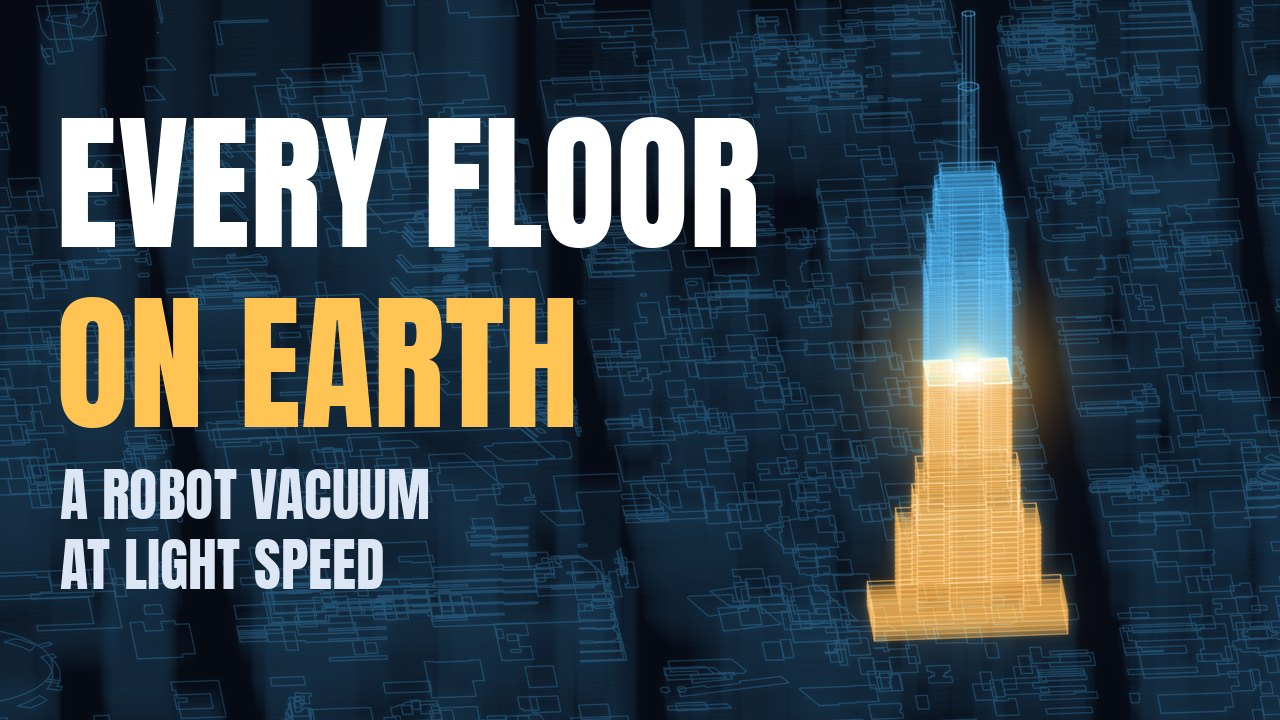
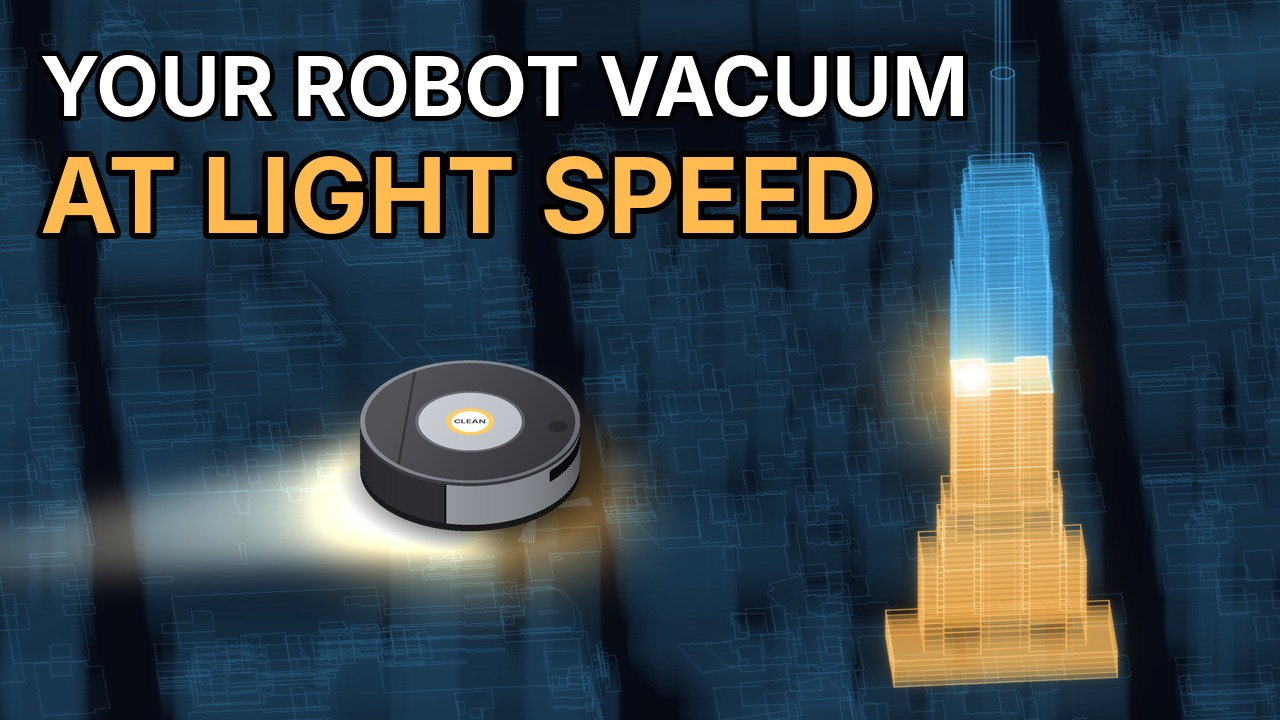
Every floor on Earth: eight thumbnails, paired titles and a new description
Thumbnails A-H from the film's own renders, each with a big robot vacuum:
your robot vacuum at light speed (Empire State Building), every floor in New
York 7.4 s, SPOTLESS (the floors, anyway), vacuum the planet 1 h 08 min, the
Empire State Building 3.5 ms, every U-turn = 10 Tsar Bombas, slowed a
billion times it's as fast as yours, robot vacuum vs. Earth. Titles paired to
each, a Test & Compare trio (A, D, C), and a description that opens with the
question and names the world total's source.

Claude-Session: https://claude.ai/code/session_01S7EUN1emEd9CYeKMFTvStm

diff --git a/world_roads/floors/thumbs.py b/world_roads/floors/thumbs.py
@@ -1,0 +1,223 @@
+"""Three thumbnails for YouTube's Test & Compare (1280x720), each with a big robot vacuum and drawn from the film's
+own renders, in the Roomba film's style (roomba/thumbs.py):
+
+    A  the X-ray Empire State Building half cleaned, a robot vacuum streaking at it: YOUR ROBOT VACUUM / AT LIGHT SPEED
+    B  Manhattan half gold:                                 EVERY FLOOR / IN NEW YORK / 7.4 s
+    C  the burning planet from the ending:                  SPOTLESS. (the floors, anyway)
+    D  the globe half gold, the answer up front:            VACUUM THE PLANET / 1 h 08 min
+    E  the Empire State Building, all gold:                 THE EMPIRE STATE BUILDING / 3.5 ms
+    F  the U-turn flash at the end of a row:                EVERY U-TURN = / 10 TSAR BOMBAS
+    G  the opening close-up, robot at true size:            SLOWED 1,000,000,000× / ...IT'S AS FAST AS YOURS
+    H  versus:                                              ROBOT VACUUM / VS. EARTH
+
+    python thumbs.py [A ... H]    -> out/thumbs/every_floor_thumb_{A..H}.png
+"""
+import os, sys, math
+import numpy as np
+import cv2
+from PIL import Image, ImageDraw, ImageFont
+
+HERE = os.path.dirname(os.path.abspath(__file__))
+ROOT = os.path.dirname(HERE)
+sys.path.insert(0, os.path.join(ROOT, "signal"))
+sys.path.insert(0, os.path.join(ROOT, "roomba"))
+sys.path.insert(0, HERE)
+import style as ST                                                    # noqa: E402
+import video as V                                                     # noqa: E402  (this film's, before frames.py adds roomba/)
+import xray as X                                                      # noqa: E402
+import cityfilm as CF                                                 # noqa: E402
+import frames as FR                                                   # noqa: E402
+
+FR.SS = 1
+TW, TH = 1280, 720
+OUT = os.path.join(HERE, "out", "thumbs")
+GOLD = (255, 186, 80)
+WHITE = (255, 255, 255)
+RED = (255, 52, 52)
+
+
+def headline(d, xy, s, size, col, anchor="la"):
+    d.text(xy, s, font=ST.font(size, "Bold"), fill=col, stroke_width=max(5, size // 16), stroke_fill=(0, 0, 0), anchor=anchor)
+
+
+def marker(d, xy, s, size, col=RED, anchor="la"):
+    f = ImageFont.truetype(os.path.join(ROOT, "thumb_fonts", "PermanentMarker-Regular.ttf"), size)
+    d.text(xy, s, font=f, fill=col, anchor=anchor, stroke_width=3, stroke_fill=(0, 0, 0))
+
+
+def hero_robot(im, x, y, width, heading=-30.0, streak_len=2.8):
+    """a three-quarter-view robot vacuum at (x, y) driving toward `heading` (screen degrees, counter-clockwise from
+    right), with a light-speed streak behind it and a warm glow under it (as in the Roomba film's thumbnails)"""
+    import roomba3d
+    arr = np.asarray(im.convert("RGB")).astype(np.float32)
+    h, w = arr.shape[:2]
+    hd = math.radians(heading)
+    dx, dy = math.cos(hd), -math.sin(hd)
+    px, py = -dy, dx
+    gy = y + width * 0.10
+    L, r0 = width * streak_len, width * 0.34
+    tail = (x - dx * L, gy - dy * L)
+    streak = np.zeros((h, w), np.float32)
+    poly = np.array([(x + px * r0, gy + py * r0 * 0.55), (x - px * r0, gy - py * r0 * 0.55), (tail[0], tail[1])], np.int32)
+    cv2.fillPoly(streak, [poly], 1.0, cv2.LINE_AA)
+    yy, xx = np.mgrid[0:h, 0:w].astype(np.float32)
+    along = ((xx - x) * -dx + (yy - gy) * -dy) / L
+    streak *= np.clip(1 - along, 0, 1) ** 1.6
+    streak = cv2.GaussianBlur(streak, (0, 0), width * 0.05)
+    glow = np.zeros((h, w), np.float32)
+    cv2.ellipse(glow, (int(x), int(gy + width * 0.05)), (int(width * 0.50), int(width * 0.24)), 0, 0, 360, 1.0, -1, cv2.LINE_AA)
+    glow = cv2.GaussianBlur(glow, (0, 0), width * 0.09)
+    arr = arr + streak[..., None] * np.array([255, 236, 196]) * 0.9 + glow[..., None] * np.array(GOLD) * 0.6
+    out = Image.fromarray(np.clip(arr, 0, 255).astype(np.uint8)).convert("RGBA")
+    sp = roomba3d.sprite(int(width), heading)
+    out.alpha_composite(sp, (int(x - sp.width / 2), int(y - sp.height / 2)))
+    return out.convert("RGB")
+
+
+def save(im, k):
+    os.makedirs(OUT, exist_ok=True)
+    p = os.path.join(OUT, f"every_floor_thumb_{k}.png")
+    im.save(p)
+    print("wrote", p, flush=True)
+
+
+def thumb_A():
+    """the Empire State Building in X-ray, cleaned up to its 60th floor, Midtown blue around it; the robot streaks in"""
+    R = CF.CityRenderer(levels=("P1",))
+    C = R.C
+    tower = R.esb_k[np.argmax([(C.pz1[k] - C.pz0[k]) * (C.pnfl[k] > 0) for k in R.esb_k])]
+    tw = [i for i, q in enumerate(R.esb_slabs) if q[1] == tower]
+    L = R.esb_time_at_slab(tw[22], 0.55)
+    cam = X.Cam(CF.PSI, CF.EL, 2.6, C.cx[R.esb], C.cy[R.esb], 190, ox=1420, oy=560, W=1920, H=1080, ss=1)
+    img = R.frame(cam, L, nb=1.0)
+    z, i, f = R.esb_state(L)
+    _, k, j, _ = R.esb_slabs[i]
+    x, y, _ = FR.active_floor(C, k, R.esb_slabs[i][0], f, cam.s, cam, img, dust_n=0, wake=False, rows_gain=1.0)
+    CF.light_win(img, x, y, 1.1, gain=1.4)
+    im = Image.fromarray(CF.finish(img)).resize((TW, TH), Image.LANCZOS)
+    im = hero_robot(im, 470, 455, 330, heading=8, streak_len=2.4)
+    d = ImageDraw.Draw(im)
+    headline(d, (40, 36), "YOUR ROBOT VACUUM", 82, WHITE)
+    headline(d, (40, 132), "AT LIGHT SPEED", 104, GOLD)
+    save(im, "A")
+
+
+def thumb_B():
+    """Manhattan in X-ray, half gold, the robot streaking up the island"""
+    R = CF.CityRenderer(levels=("P2", "P3"))
+    C = R.C
+    L = 1.6
+    R.advance(L)
+    ex, ey = C.cx[R.esb], C.cy[R.esb]
+    cam = X.Cam(CF.PSI, CF.EL, 0.118, ex + 1500, ey + 2500, 0, ox=1180, oy=540, W=1920, H=1080, ss=1)
+    img = R.frame(cam, L)
+    xw, yw, zw = R.frontier_point(L)
+    u, v = cam.project(np.array([xw]), np.array([yw]), np.array([zw]))
+    CF.light_win(img, float(u[0]), float(v[0]), 0.8)
+    im = Image.fromarray(CF.finish(img, bloom=(0.26, 0.17, 0.1))).resize((TW, TH), Image.LANCZOS)
+    im = hero_robot(im, 930, 330, 380, -35)
+    d = ImageDraw.Draw(im)
+    headline(d, (40, 40), "EVERY FLOOR", 110, GOLD)
+    headline(d, (44, 160), "IN NEW YORK", 72, WHITE)
+    headline(d, (40, TH - 40), "7.4 s", 140, GOLD, "ls")
+    save(im, "B")
+
+
+def thumb_C():
+    """the planet glowing orange-hot after 273 billion U-turns; the robot streaks past"""
+    g = dict(cx=1220, cy=560, r=520, lon0=-35, lat0=22)
+    fr = V.globe_img(g, V.WORLD_FLOOR_M2 * 1.0001, fire=1.6)
+    im = Image.fromarray(fr).resize((TW, TH), Image.LANCZOS)
+    im = hero_robot(im, 330, 470, 300, heading=-18, streak_len=2.2)
+    d = ImageDraw.Draw(im)
+    headline(d, (40, 40), "SPOTLESS.", 150, WHITE)
+    marker(d, (52, 215), "(the floors, anyway)", 54)
+    save(im, "C")
+
+
+def thumb_D():
+    """the globe half gold, the light at the frontier, the robot streaking across: the answer up front"""
+    import globe as G
+    S = V.Sweep()
+    u = 30.0
+    done = float(S.done(u))
+    flon, flat, clon, clat = S.at(u)
+    g = dict(cx=1250, cy=600, r=560, lon0=25, lat0=20)
+    fr = V.globe_img(g, done, light=(flon, flat), light_size=1.3)
+    im = Image.fromarray(fr).resize((TW, TH), Image.LANCZOS)
+    im = hero_robot(im, 860, 470, 300, heading=-8, streak_len=2.6)
+    d = ImageDraw.Draw(im)
+    headline(d, (40, 36), "VACUUM", 108, WHITE)
+    headline(d, (40, 150), "THE PLANET", 108, WHITE)
+    headline(d, (40, TH - 40), "1 h 08 min", 120, GOLD, "ls")
+    save(im, "D")
+
+
+def thumb_E():
+    """the Empire State Building done, all gold, Midtown still blue around it"""
+    R = CF.CityRenderer(levels=("P1",))
+    C = R.C
+    L = R.esb_t1 + 1e-7
+    cam = X.Cam(CF.PSI, CF.EL, 2.6, C.cx[R.esb], C.cy[R.esb], 190, ox=1380, oy=560, W=1920, H=1080, ss=1)
+    img = R.frame(cam, L, nb=1.0)
+    im = Image.fromarray(CF.finish(img, bloom=(0.3, 0.2, 0.12))).resize((TW, TH), Image.LANCZOS)
+    im = hero_robot(im, 760, 560, 250, heading=60, streak_len=2.4)
+    d = ImageDraw.Draw(im)
+    headline(d, (40, 40), "THE EMPIRE STATE", 78, WHITE)
+    headline(d, (40, 130), "BUILDING", 78, WHITE)
+    headline(d, (36, TH - 50), "3.5 ms", 170, GOLD, "ls")
+    save(im, "E")
+
+
+def thumb_F():
+    """the end of a row at the wall, the moment of the U-turn: a white-hot flash"""
+    U = V.UTurn()
+    C = U.C
+    t = U.HIT - 0.05
+    d_left = max(0.0, (U.HIT - t) * U.SPEED)
+    f = U.f_end - d_left / U.cum[-1]
+    img = np.zeros((1080, 1920, 3), np.float32) + X.BG
+    x, y, hd = FR.active_floor(C, U.tower, U.zf, f, U.cam.s, U.cam, img, dust_n=250000, wake=True, rows_gain=0.30)
+    CF.light_win(img, x, y, 7.0, gain=14.0)
+    img += 0.35 * np.array([1.0, 0.85, 0.6], np.float32)
+    im = Image.fromarray(CF.finish(img, bloom=(0.3, 0.25, 0.2))).resize((TW, TH), Image.LANCZOS)
+    im = hero_robot(im, x * TW / 1920 + 150, y * TH / 1080 + 60, 280, heading=170, streak_len=1.8)
+    d = ImageDraw.Draw(im)
+    headline(d, (40, 36), "EVERY U-TURN =", 96, WHITE)
+    headline(d, (40, TH - 40), "10 TSAR BOMBAS", 112, GOLD, "ls")
+    save(im, "F")
+
+
+def thumb_G():
+    """the opening close-up: the robot on the 44th floor at true size, rows behind it, dust ahead"""
+    Hk = V.Hook()
+    t = 1.6
+    fr, _ = Hk.city(t, Hk.L(t))
+    # zoom on the robot: crop around it and scale up
+    im = Image.fromarray(fr).crop((960 - 640, 690 - 430, 960 + 640, 690 + 290)).resize((TW, TH), Image.LANCZOS)
+    im = hero_robot(im, 640, 470, 340, heading=72, streak_len=0.05)          # slowed down: no streak, just the robot
+    d = ImageDraw.Draw(im)
+    headline(d, (40, 36), "SLOWED 1,000,000,000×", 84, GOLD)
+    headline(d, (40, TH - 40), "...IT'S AS FAST AS YOURS", 74, WHITE, "ls")
+    save(im, "G")
+
+
+def thumb_H():
+    """versus: the robot against the whole planet"""
+    S = V.Sweep()
+    u = 22.0
+    done = float(S.done(u))
+    flon, flat, clon, clat = S.at(u)
+    g = dict(cx=1340, cy=560, r=600, lon0=-20, lat0=25)
+    fr = V.globe_img(g, done, light=(flon, flat), light_size=1.1)
+    im = Image.fromarray(fr).resize((TW, TH), Image.LANCZOS)
+    im = hero_robot(im, 300, 470, 340, heading=-20, streak_len=1.6)
+    d = ImageDraw.Draw(im)
+    headline(d, (40, 36), "ROBOT VACUUM", 100, WHITE)
+    headline(d, (40, 150), "VS. EARTH", 130, GOLD)
+    save(im, "H")
+
+
+if __name__ == "__main__":
+    for k in (sys.argv[1:] or list("ABCDEFGH")):
+        globals()[f"thumb_{k}"]()

diff --git a/videos/copy/every_floor_YOUTUBE.md b/videos/copy/every_floor_YOUTUBE.md
@@ -1,24 +1,51 @@
 # YouTube copy: a robot vacuum at the speed of light cleans every floor on Earth
 
 Upload `every_floor_on_earth_at_light_speed_3m24s.mp4` (3:24, 1920×1080, 30 fps, captions and music, no voice). The
-sequel to the Roomba film (`copy/roomba_YOUTUBE.md`). Thumbnails `every_floor_thumb_A.jpg` (the X-ray
-Empire State Building) and `every_floor_thumb_B.jpg` (the half-gold globe).
+sequel to the Roomba film (`copy/roomba_YOUTUBE.md`). Thumbnails `thumbnails/every_floor_thumb_A.jpg` … `_H.jpg`
+(contact sheet: `thumbnails/every_floor_thumbnails_A-H.png`), built by `world_roads/floors/thumbs.py`.
+
+## Test & Compare (YouTube tests up to three)
+
+Start with **A + D + C**: the relatable question, the answer, the twist.
 
 | | Thumbnail | Title |
 |---|---|---|
-| A | X-ray Empire State Building, half gold: EVERY FLOOR / ON EARTH | How Long Would a Light-Speed Robot Vacuum Take to Clean Every Floor on Earth? |
-| B | The globe half gold: VACUUMING / EVERY FLOOR / ON EARTH | I Vacuumed Every Floor on Earth at the Speed of Light |
+| **A** | X-ray Empire State Building half gold, a robot vacuum streaking at it: YOUR ROBOT VACUUM / AT LIGHT SPEED | What If Your Robot Vacuum Moved at the Speed of Light? |
+| **D** | The globe half gold, the robot streaking across Africa: VACUUM THE PLANET / 1 h 08 min | How Long Would a Light-Speed Robot Vacuum Take to Clean Earth? |
+| **C** | The planet glowing orange-hot: SPOTLESS. *(the floors, anyway)* | Light-Speed Robot Vacuum: Earth in an Hour, Then Physics Shows Up |
 
-**Description**
+## All eight
+
+| | Thumbnail | Paired title |
+|---|---|---|
+| A | YOUR ROBOT VACUUM / AT LIGHT SPEED (Empire State Building, half gold) | What If Your Robot Vacuum Moved at the Speed of Light? |
+| B | EVERY FLOOR / IN NEW YORK / 7.4 s (Manhattan, half gold; matches the Roomba film's "EVERY STREET IN NEW YORK 1.9 s") | A Light-Speed Robot Vacuum Cleans Every Floor in New York in 7 Seconds |
+| C | SPOTLESS. *(the floors, anyway)* (burning planet) | Light-Speed Robot Vacuum: Earth in an Hour, Then Physics Shows Up |
+| D | VACUUM THE PLANET / 1 h 08 min (globe, half gold) | How Long Would a Light-Speed Robot Vacuum Take to Clean Earth? |
+| E | THE EMPIRE STATE BUILDING / 3.5 ms (all gold, spire still blue) | The Empire State Building, Vacuumed in 3.5 Milliseconds |
+| F | EVERY U-TURN = / 10 TSAR BOMBAS (the flash at the wall) | What Happens When a Robot Vacuum Hits Light Speed? |
+| G | SLOWED 1,000,000,000× / ...IT'S AS FAST AS YOURS (the opening close-up) | Slowed Down a Billion Times, This Robot Vacuum Is as Fast as Yours |
+| H | ROBOT VACUUM / VS. EARTH (globe) | Robot Vacuum vs. Every Floor on Earth (at the Speed of Light) |
+
+More titles: *Every Floor on Earth, Vacuumed at the Speed of Light* · *I Simulated a Robot Vacuum Cleaning Every
+Floor on Earth at Light Speed* · *Your Robot Vacuum, but at the Speed of Light*.
+
+G's line is literal: light slowed a billion times moves at 0.3 m/s, about a robot vacuum's cleaning speed.
+
+## Description
 
 ```
-Last time, a Roomba with no map drove every road in America at the speed of light. It didn't clean a thing. So this time: a modern robot vacuum, the kind that maps the room and cleans in neat rows 25 cm apart, moving at the speed of light. It cleans every floor of every building in New York City. Then every floor on Earth.
+What if your robot vacuum moved at the speed of light? This one cleans every floor of every building in New York, all 1,081,950 of them, and then every floor on Earth.
 
-🧹 One Empire State Building (261,312 m², 102 floors): 1,045 km of rows, 3.5 milliseconds.
-🧹 Every floor in New York (1,081,950 buildings, 535 million m²): 7.4 seconds. The rows would reach the Moon and back nearly three times.
-🧹 Every floor on Earth (about 273 billion m², about 2.5 billion buildings): about 1 hour 8 minutes. An hour of vacuuming, 7 minutes getting from building to building. The rows, end to end: 1.09 billion km, farther than Jupiter is from the Sun.
-🧹 The dustbin: about 82,000 tonnes of dust, half a billion bin-fulls. At 10 seconds per emptying, 173 years.
-🧹 The physics: nothing with mass reaches light speed. At 99% of it, a 4 kg robot stopping at the end of a row releases about 10 Tsar Bombas. It makes about 273 billion U-turns.
+🧹 The Empire State Building (261,312 m², 102 floors): 3.5 milliseconds.
+🧹 Every floor in New York (535 million m²): 7.4 seconds. That's 2.1 million km of rows, 5.6 times the distance to the Moon.
+🧹 Every floor on Earth (about 273 billion m², about 2.5 billion buildings): about 1 hour 8 minutes. The rows, end to end, reach farther than Jupiter is from the Sun.
+🧹 The dustbin: about 82,000 tonnes of dust, half a billion bin-fulls, 173 years of emptying.
+🧹 The catch: at 99% of light speed, every U-turn at the end of a row releases about 10 Tsar Bombas. It makes about 273 billion of them.
+
+Where the world's floor area comes from: UN Environment Programme & the Global Alliance for Buildings and Construction, Global Status Report for Buildings and Construction 2025–2026: 273 billion m² of building floor area in 2024.
+
+It's the sequel to "How long would a Roomba take to drive every road in America at the speed of light?" That Roomba had no map and drove at random. This robot has a map: rows 25 cm apart, back and forth, never going back.
 
 What should it clean next? Tell me in the comments.
 
@@ -33,7 +60,7 @@ What should it clean next? Tell me in the comments.
 2:50 Footnotes: the dustbin and the U-turn
 3:12 Spotless
 
-How it's made: New York's buildings are the city's own data (NYC Building Footprints and PLUTO floor areas, NYC Open Data); the Empire State Building's setbacks come from OpenStreetMap via Overture Maps. Where the world's floor is comes from the European Commission's Global Human Settlement Layer (building volume, 2025), scaled to the published world total of 273 billion m² (UNEP / GlobalABC Global Status Report for Buildings and Construction, 2024). Rows 25 cm apart is an assumption: no maker publishes lane spacing. Every slow-motion and speed-up is labelled on screen, and the world total's source is on screen whenever the total is.
+How it's made: New York's buildings are the city's own data (NYC Building Footprints and PLUTO floor areas, NYC Open Data); the Empire State Building's setbacks come from OpenStreetMap via Overture Maps. Where the world's floor is on the map comes from the European Commission's Global Human Settlement Layer (building volume, 2025), scaled to the UNEP / GlobalABC total. Rows 25 cm apart is an assumption: no maker publishes lane spacing. Every slow-motion and speed-up is labelled on screen, and the world total's source is on screen whenever the total is.
 Method, sources and every number: https://github.com/drburke-droid/nhl-sog-predictor/blob/master/world_roads/floors/ACCURACY.md
 
 Music: an original theme, synthesized for these videos (no samples).
@@ -54,8 +81,9 @@ Music: an original theme, synthesized for these videos (no samples).
 3:12 Spotless
 ```
 
-**Tags:** robot vacuum, speed of light, Empire State Building, New York City, every floor, floor area, data
-visualization, Roomba, GHSL, PLUTO, Tsar Bomba
+**Tags:** robot vacuum, speed of light, what if, robot vacuum speed of light, every floor on Earth, Empire State
+Building, New York City, floor area, Tsar Bomba, data visualization, Roomba, light speed, physics, simulation
 
-**Pinned comment idea:** "Greater Tokyo has the most floor of any city: 24 seconds of light. What's the
-biggest building you'd want to see it clean?"
+**Pinned comment ideas:**
+* "Greater Tokyo has the most floor of any city: 24 seconds of light. Which building should it do next?"
+* "Slowed down a billion times, it moves at 0.3 m/s, about as fast as the one in your living room."

diff --git a/videos/README.md b/videos/README.md
@@ -34,7 +34,7 @@ no-voice versions plus Shorts, made with the neurogaze project) and the video of
 | roomba_at_light_speed_every_road.mp4 | 16:9 | 3:23 | A Roomba-style photon covering every road. Copy: `copy/roomba_YOUTUBE.md`, thumbnails roomba_thumb_A/B/C |
 | roomba_at_light_speed_SHORT.mp4 | vertical | 0:50 | Roomba photon, short cut |
 | roomba_at_light_speed_calgary_SHORT.mp4 | vertical | 0:42 | Roomba photon in Calgary |
-| every_floor_on_earth_at_light_speed_3m24s.mp4 | 16:9 | 3:24 | A modern robot vacuum (mapped, rows 25 cm apart) at light speed cleans every floor: the Empire State Building (3.5 ms), New York (7.4 s), Earth (about 1 h 08 min). Opens low and close on the 44th floor before pulling out. Two-pass copy under 100 MB; the 150 MB master was sent separately. Copy: `copy/every_floor_YOUTUBE.md`, thumbnails every_floor_thumb_A/B; built by `world_roads/floors/` |
+| every_floor_on_earth_at_light_speed_3m24s.mp4 | 16:9 | 3:24 | A modern robot vacuum (mapped, rows 25 cm apart) at light speed cleans every floor: the Empire State Building (3.5 ms), New York (7.4 s), Earth (about 1 h 08 min). Opens low and close on the 44th floor before pulling out. Two-pass copy under 100 MB; the 150 MB master was sent separately. Copy: `copy/every_floor_YOUTUBE.md`, thumbnails every_floor_thumb_A–H (contact sheet every_floor_thumbnails_A-H.png); built by `world_roads/floors/` |
 
 Left out as superseded or drafts: the first hyperacuity video, the first cut of the world short, the world-roads
 preview, the daytime-only half of the flights film, and the signal-fires film (not speed of light).
